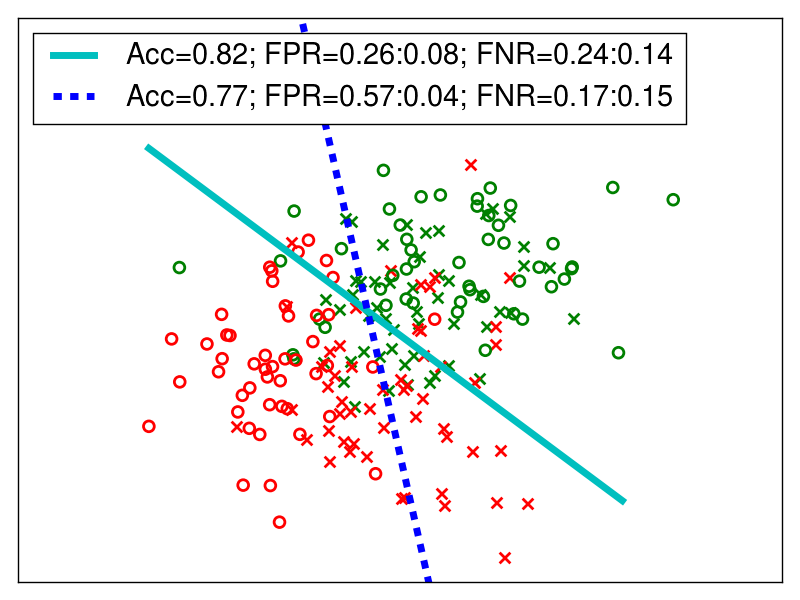
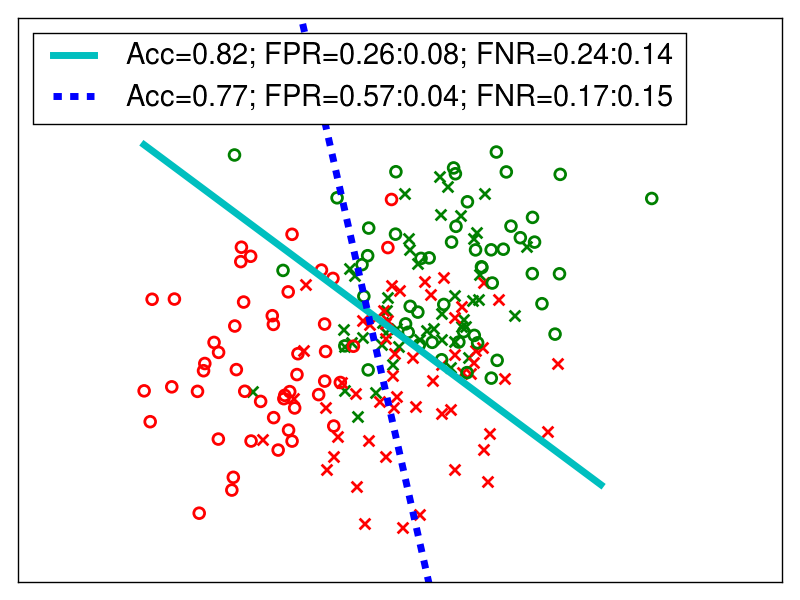
updated figures

diff --git a/disparate_mistreatment/synthetic_data_demo/decision_boundary_demo.py b/disparate_mistreatment/synthetic_data_demo/decision_boundary_demo.py
@@ -34,40 +34,6 @@ def test_synthetic_data():
 		return w, test_score, s_attr_to_fp_fn_test
 		
 
-	def plot_boundaries(w1, w2, p1, p2, acc1, acc2, fname):
-
-		num_to_draw = 200 # we will only draw a small number of points to avoid clutter
-		x_draw = X[:num_to_draw]
-		y_draw = y[:num_to_draw]
-		x_control_draw = x_control["s1"][:num_to_draw]
-
-		X_s_0 = x_draw[x_control_draw == 0.0]
-		X_s_1 = x_draw[x_control_draw == 1.0]
-		y_s_0 = y_draw[x_control_draw == 0.0]
-		y_s_1 = y_draw[x_control_draw == 1.0]
-		plt.scatter(X_s_0[y_s_0==1.0][:, 1], X_s_0[y_s_0==1.0][:, 2], color='green', marker='x', s=30, linewidth=1.5)
-		plt.scatter(X_s_0[y_s_0==-1.0][:, 1], X_s_0[y_s_0==-1.0][:, 2], color='red', marker='x', s=30, linewidth=1.5)
-		plt.scatter(X_s_1[y_s_1==1.0][:, 1], X_s_1[y_s_1==1.0][:, 2], color='green', marker='o', facecolors='none', s=30)
-		plt.scatter(X_s_1[y_s_1==-1.0][:, 1], X_s_1[y_s_1==-1.0][:, 2], color='red', marker='o', facecolors='none', s=30)
-
-
-		x1,x2 = max(x_draw[:,1]), min(x_draw[:,1])
-		y1,y2 = ut.get_line_coordinates(w1, x1, x2)
-		plt.plot([x1,x2], [y1,y2], 'c-', linewidth=3, label = "Acc=%0.2f; p%% rule=%0.0f%% - Original"%(acc1, p1))
-		y1,y2 = ut.get_line_coordinates(w2, x1, x2)
-		plt.plot([x1,x2], [y1,y2], 'b--', linewidth=3, label = "Acc=%0.2f; p%% rule=%0.0f%% - Constrained"%(acc2, p2))
-
-
-
-		plt.tick_params(axis='x', which='both', bottom='off', top='off', labelbottom='off') # dont need the ticks to see the data distribution
-		plt.tick_params(axis='y', which='both', left='off', right='off', labelleft='off')
-		plt.legend(loc=2, fontsize=15)
-		plt.xlim((-15,10))
-		plt.ylim((-10,15))
-		plt.savefig(fname)
-		plt.show()
-
-
 	""" Classify the data while optimizing for accuracy """
 	print
 	print "== Unconstrained (original) classifier =="
@@ -91,14 +57,14 @@ def test_synthetic_data():
 					"sensitive_attrs_to_cov_thresh": sensitive_attrs_to_cov_thresh}
 
 	w_cons, acc_cons, s_attr_to_fp_fn_test_cons  = train_test_classifier()
-	psb.plot_boundaries(x_test, y_test, x_control_test, [w_uncons, w_cons], [acc_uncons, acc_cons], [s_attr_to_fp_fn_test_uncons["s1"], s_attr_to_fp_fn_test_cons["s1"]], "img/syn_cons_dtype_%d_cons_type_%d.png"%(data_type, cons_type) )
+	psb.plot_boundaries(X, y, x_control, [w_uncons, w_cons], [acc_uncons, acc_cons], [s_attr_to_fp_fn_test_uncons["s1"], s_attr_to_fp_fn_test_cons["s1"]], "img/syn_cons_dtype_%d_cons_type_%d.png"%(data_type, cons_type) )
 	print "\n-----------------------------------------------------------------------------------\n"
 
 	print "\n\n=== Constraints on FNR ==="
 	cons_type = 2
 	cons_params["cons_type"] = cons_type # FNR constraint -- just change the cons_type, the rest of parameters should stay the same
 	w_cons, acc_cons, s_attr_to_fp_fn_test_cons  = train_test_classifier()
-	psb.plot_boundaries(x_test, y_test, x_control_test, [w_uncons, w_cons], [acc_uncons, acc_cons], [s_attr_to_fp_fn_test_uncons["s1"], s_attr_to_fp_fn_test_cons["s1"]], "img/syn_cons_dtype_%d_cons_type_%d.png"%(data_type, cons_type) )
+	psb.plot_boundaries(X, y, x_control, [w_uncons, w_cons], [acc_uncons, acc_cons], [s_attr_to_fp_fn_test_uncons["s1"], s_attr_to_fp_fn_test_cons["s1"]], "img/syn_cons_dtype_%d_cons_type_%d.png"%(data_type, cons_type) )
 	print "\n-----------------------------------------------------------------------------------\n"
 
 
@@ -107,7 +73,7 @@ def test_synthetic_data():
 	cons_type = 4
 	cons_params["cons_type"] = cons_type # both FPR and FNR constraints
 	w_cons, acc_cons, s_attr_to_fp_fn_test_cons  = train_test_classifier()
-	psb.plot_boundaries(x_test, y_test, x_control_test, [w_uncons, w_cons], [acc_uncons, acc_cons], [s_attr_to_fp_fn_test_uncons["s1"], s_attr_to_fp_fn_test_cons["s1"]], "img/syn_cons_dtype_%d_cons_type_%d.png"%(data_type, cons_type) )
+	psb.plot_boundaries(X, y, x_control, [w_uncons, w_cons], [acc_uncons, acc_cons], [s_attr_to_fp_fn_test_uncons["s1"], s_attr_to_fp_fn_test_cons["s1"]], "img/syn_cons_dtype_%d_cons_type_%d.png"%(data_type, cons_type) )
 	print "\n-----------------------------------------------------------------------------------\n"
 
 

diff --git a/disparate_mistreatment/synthetic_data_demo/generate_synthetic_data.py b/disparate_mistreatment/synthetic_data_demo/generate_synthetic_data.py
@@ -104,7 +104,7 @@ def generate_synthetic_data(data_type, plot_data=False):
     """ Plot the data """
     if plot_data:
         plt.figure()
-        num_to_draw = 300 # we will only draw a small number of points to avoid clutter
+        num_to_draw = 200 # we will only draw a small number of points to avoid clutter
         x_draw = X[:num_to_draw]
         y_draw = y[:num_to_draw]
         x_control_draw = x_control[:num_to_draw]
